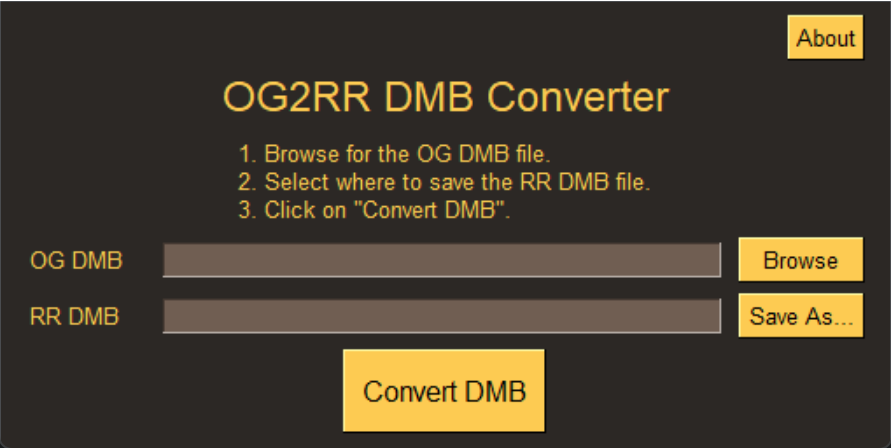
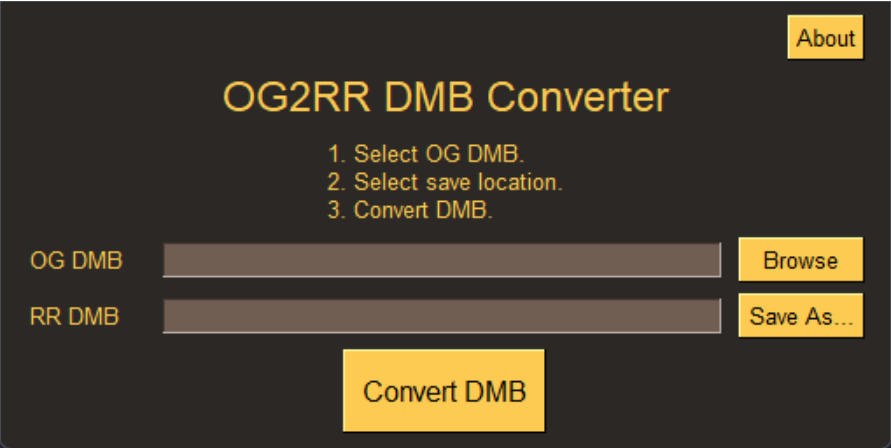
v0.2.0 release

Changed region(s): [[0.2727, 0.3125, 0.7273, 0.5]]

diff --git a/dmb.py b/dmb.py
@@ -1,28 +1,20 @@
-import re, json
+import re
 from os.path import isfile
 
 
 # regex patterns
-# re_type = re.compile(r"type\s([^;\n]+)")
 re_type = re.compile(r"^\s*type\s([^;\n]+)", re.M)
-# re_skeleton = re.compile(r"skeleton\s([^;\n]+)")
 re_skeleton = re.compile(r"^\s*skeleton\s([^;\n]+)", re.M)
-# re_skeleton_horse = re.compile(r"skeleton_horse([^;\n]+)")
 re_skeleton_horse = re.compile(r"^\s*skeleton_horse([^;\n]+)", re.M)
-# re_skeleton_elephant = re.compile(r"skeleton_elephant([^;\n]+)")
 re_skeleton_elephant = re.compile(r"^\s*skeleton_elephant([^;\n]+)", re.M)
-# re_skeleton_chariot = re.compile(r"skeleton_chariot([^;\n]+)")
 re_skeleton_chariot = re.compile(r"^\s*skeleton_chariot([^;\n]+)", re.M)
-# re_skeleton_camel = re.compile(r"skeleton_camel([^;\n]+)")
 re_skeleton_camel = re.compile(r"^\s*skeleton_camel([^;\n]+)", re.M)
-# re_texture = re.compile(r"texture\s(.+,)?.+(data[^;\n]+)")
 re_texture = re.compile(r"^\s*texture\s(.+,)?.+(data[^;\n]+)", re.M)
-# re_model = re.compile(r"model_flexi(?:_m|_c)?.+(data.+),.+")
-re_model = re.compile(r"^\s*model_flexi(?:_m|_c)?.+(data.+),.+", re.M)
+re_model = re.compile(r"^\s*model_flexi(_m|_c)?.+(data.+),([^;\n]+)", re.M)
 
 
 def convert_dmb_og2rr(dmb_og_path, dmb_rr_path, progress):
-    """Convert OG DMB to RR. Only keep the first model (assume `model_flexi`). Assign generic PBR texture."""
+    """Convert OG DMB to RR. Assign generic PBR texture."""
 
     # list of `type` names skipped due to missing textures
     skipped_types = []
@@ -98,10 +90,14 @@ def convert_dmb_og2rr(dmb_og_path, dmb_rr_path, progress):
             continue
         entry["texture"] = textures
 
-        model = re_model.search(match).group(1).strip()
-        if not model:
+        models = re_model.findall(match)
+        if not models:
             raise Exception(f"Could not find model for {type}.")
-        entry["model"] = model
+        entry["models"] = []
+        for model in models:
+            # (suffix, path, distance)
+            model = tuple(map(lambda x: x.strip(), model))
+            entry["models"].append(model)
 
         entries.append(entry)
 
@@ -130,8 +126,19 @@ def convert_dmb_og2rr(dmb_og_path, dmb_rr_path, progress):
             f.write(f"pbr_texture                 {generic_pbr}\n")
             for texture in entry["texture"]:
                 f.write(f"texture                     {texture}\n")
-            f.write(f"model_flexi                 {entry['model']}\n")
-            f.write(f"no_variation model_flexi    {entry['model']}\n\n")
+            for model in entry["models"]:
+                suffix, path, distance = model
+                if suffix:
+                    f.write(f"model_flexi{suffix}               {path}, {distance}\n")
+                else:
+                    f.write(f"model_flexi                 {path}, {distance}\n")
+            for model in entry["models"]:
+                suffix, path, distance = model
+                if suffix:
+                    f.write(f"no_variation model_flexi{suffix}  {path}, {distance}\n")
+                else:
+                    f.write(f"no_variation model_flexi    {path}, {distance}\n")
+            f.write("\n")
 
     # if any models lacked textures, list them in error file and return skip count
     if len(skipped_types):

diff --git a/main.py b/main.py
@@ -1,9 +1,9 @@
 """
-This GUI app converts the DMB file (descr_model_battle.txt)
-from OG (Rome: Total War) to RR (Total War: Rome Remastered).
+This program converts `descr_model_battle.txt` (DMB) from
+_Rome: Total War_ (OG) to _Total War: Rome Remastered_ (RR).
 
-OG2RR DMB Converter v0.1
-Copyright 2021-2022, Vartan Haghverdi
+OG2RR DMB Converter v0.2.0
+Copyright 2022 Vartan Haghverdi
 """
 
 
@@ -29,13 +29,13 @@ font_btn = ("Helvetica", 12)
 
 title = "OG2RR DMB Converter"
 
-about_text = """OG2RR DMB Converter v0.1\n
-Brought to you by the EB Online Team\n
-Copyright 2021-2022, Vartan Haghverdi"""
+about_text = """OG2RR DMB Converter v0.2.0
+Brought to you by the EB Online Team
+Copyright 2022 Vartan Haghverdi"""
 
-instructions = """1. Browse for the OG DMB file.
-2. Select where to save the RR DMB file.
-3. Click on "Convert DMB"."""
+instructions = """1. Select OG DMB.
+2. Select save location.
+3. Convert DMB."""
 
 file_types = (("Text files (.txt)", "*.txt"), ("All files", "*.* *"))
 

diff --git a/README.md b/README.md
@@ -1,10 +1,10 @@
 # OG2RR DMB Converter
 
-This program converts DMB files (`descr_model_battle.txt`) from their original format in _Rome: Total War_ (OG) to one compatible with _Total War: Rome Remastered_ (RR).
+This program converts `descr_model_battle.txt` (DMB) from _Rome: Total War_ (OG) to _Total War: Rome Remastered_ (RR).
 
 ## Notes
 
-For convenience, the converter sets the `pbr_texture` for all models to `data/characters/textures/generic_pbr.tga`
+For convenience, the converter sets the `pbr_texture` for all models to `data/characters/textures/generic_pbr.tga`. If you wish to add custom PBR textures to models, please modify the relevant line manually after the conversion process.
 
 Any models missing `texture` lines are skipped. If any such models exist, the program will alert the user after the conversion process, indicating the number of skipped models. A text file listing the missing models will be saved as `og2rr_error.txt`.
 
@@ -12,5 +12,4 @@ Any models missing `texture` lines are skipped. If any such models exist, the pr
 
 ![OG2RR DMB Converter (screenshot)](screenshot.png)
 
-Brought to you by the EB Online Team  
-Copyright 2021-2022, Vartan Haghverdi
+Brought to you by the EB Online Team

diff --git a/LICENSE.md b/LICENSE.md
@@ -1,0 +1,21 @@
+MIT License
+
+Copyright (c) 2022 Vartan Haghverdi
+
+Permission is hereby granted, free of charge, to any person obtaining a copy
+of this software and associated documentation files (the "Software"), to deal
+in the Software without restriction, including without limitation the rights
+to use, copy, modify, merge, publish, distribute, sublicense, and/or sell
+copies of the Software, and to permit persons to whom the Software is
+furnished to do so, subject to the following conditions:
+
+The above copyright notice and this permission notice shall be included in all
+copies or substantial portions of the Software.
+
+THE SOFTWARE IS PROVIDED "AS IS", WITHOUT WARRANTY OF ANY KIND, EXPRESS OR
+IMPLIED, INCLUDING BUT NOT LIMITED TO THE WARRANTIES OF MERCHANTABILITY,
+FITNESS FOR A PARTICULAR PURPOSE AND NONINFRINGEMENT. IN NO EVENT SHALL THE
+AUTHORS OR COPYRIGHT HOLDERS BE LIABLE FOR ANY CLAIM, DAMAGES OR OTHER
+LIABILITY, WHETHER IN AN ACTION OF CONTRACT, TORT OR OTHERWISE, ARISING FROM,
+OUT OF OR IN CONNECTION WITH THE SOFTWARE OR THE USE OR OTHER DEALINGS IN THE
+SOFTWARE.

diff --git a/CHANGELOG.md b/CHANGELOG.md
@@ -1,0 +1,25 @@
+# Changelog
+
+## [0.2.0] - 2022-09-13
+
+### Added
+
+- MIT License.
+
+### Changed
+
+- Account for initial whitespace in DMB lines.
+- Keep all model lines instead of only the first.
+- Simplify instructions.
+- Update screenshot.
+- Start following [SemVer](https://semver.org/).
+
+## [0.1] - 2022-07-23
+
+### Added
+
+- GUI app written in Python using the PySimpleGUI package.
+- Ability to convert `descr_model_battle.txt` from _Rome: Total War_ (OG) to _Total War: Rome Remastered_ (RR).
+
+[0.2.0]: https://gitlab.com/eb-online/tools/og2rr_dmb/-/releases/v0.2.0
+[0.1]: https://gitlab.com/eb-online/tools/og2rr_dmb/-/releases/v0.1
